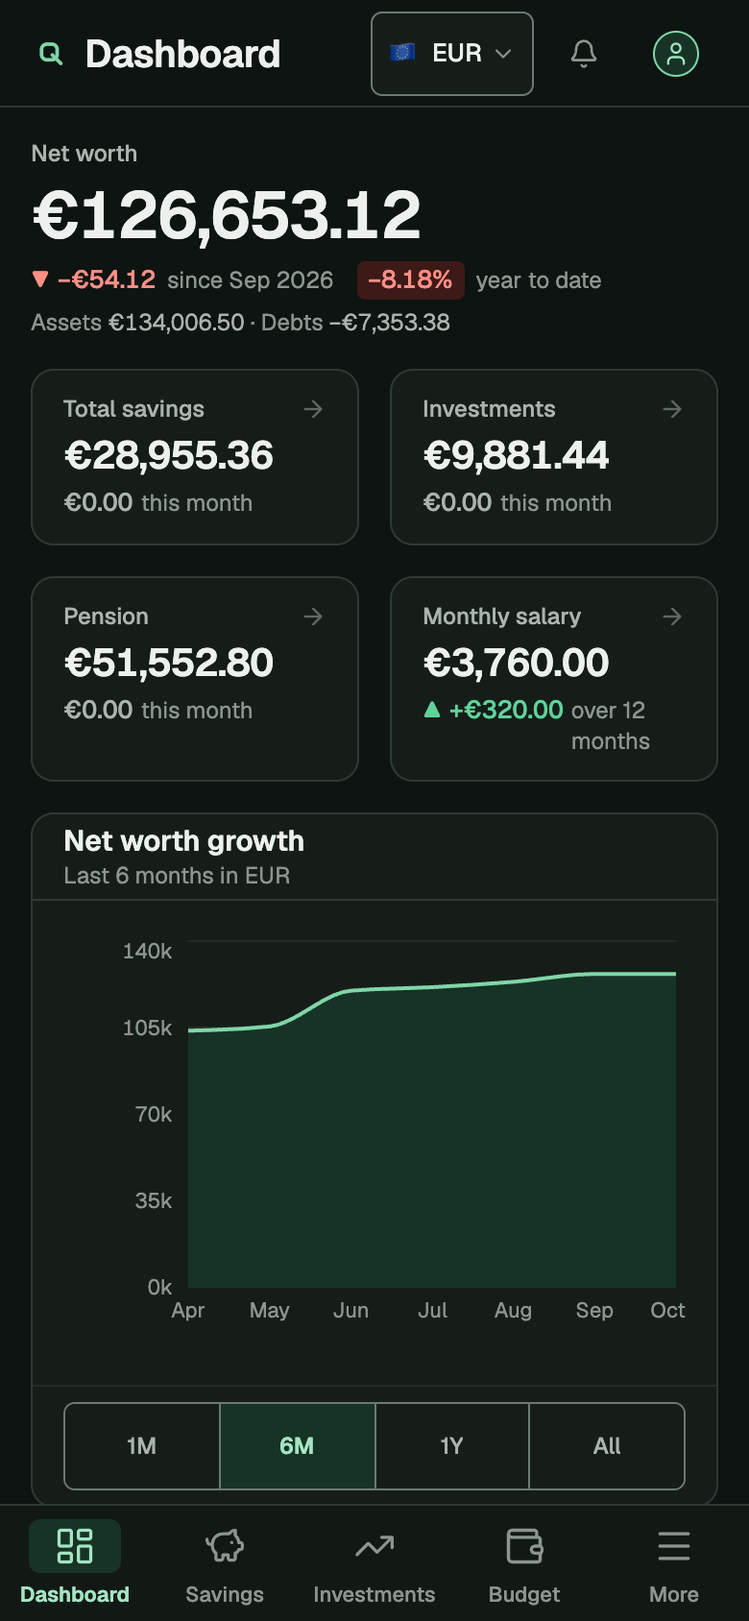
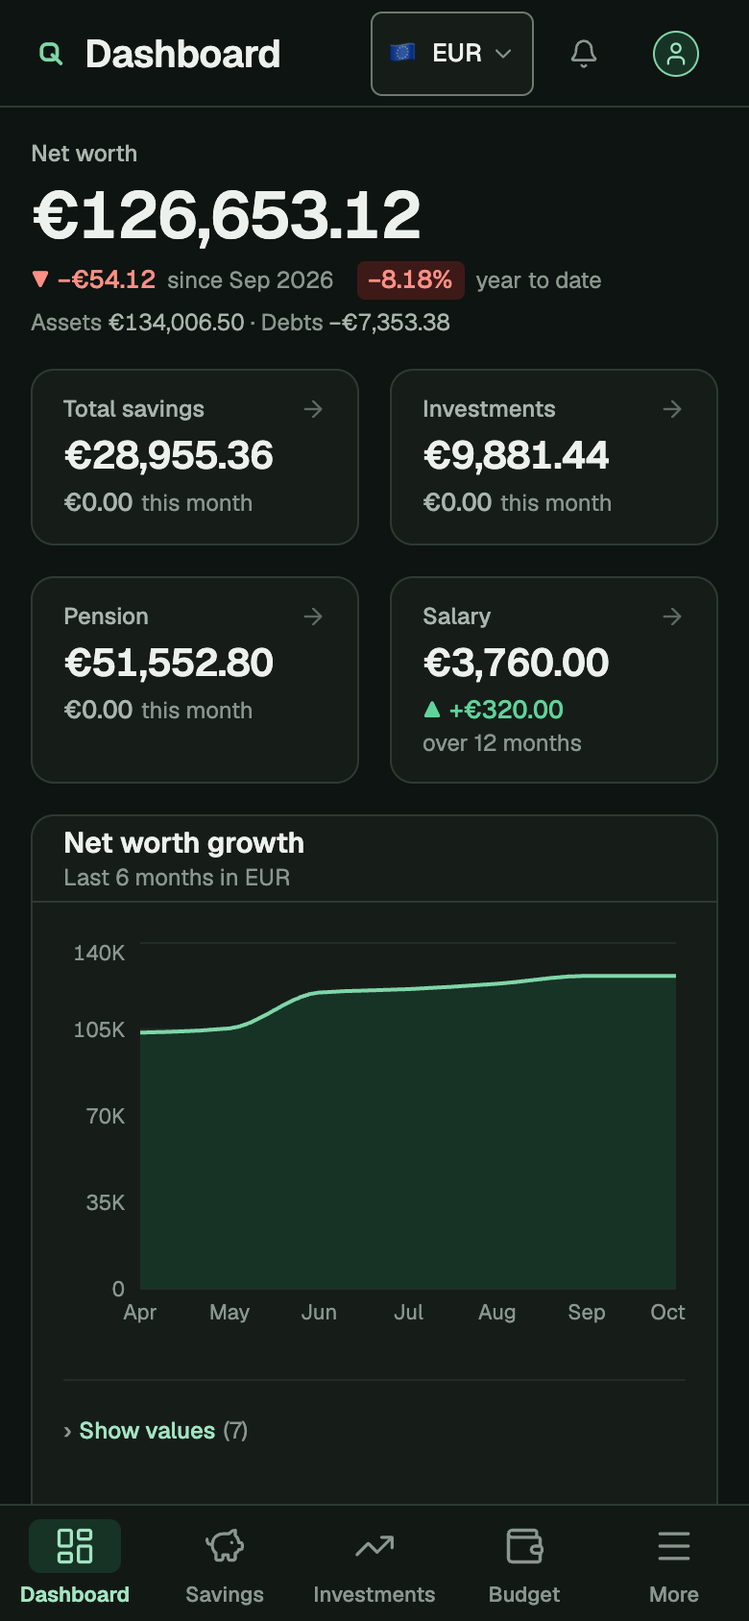
chore(release): prepare v1.0.0-rc.1 (#463)
- set the version to v1.0.0-rc.1 and date the changelog section
- add upgrade notes from 0.9.0 covering migrations 0041 to 0043
- move the documented image tags to v1.0.0-rc.1
- retake the reference screenshots from the demo household

diff --git a/CHANGELOG.md b/CHANGELOG.md
@@ -2,40 +2,55 @@
 
 All notable changes to this project will be documented in this file. The format roughly follows [Keep a Changelog](https://keepachangelog.com/en/1.1.0/) and uses [Semantic Versioning](https://semver.org/) for release numbers.
 
-## [Unreleased]
+## [v1.0.0-rc.1] - 2026-10-16
 
-### Changed
+Quro 1.0.0-rc.1 is the release candidate for 1.0.0. It adds account export and deletion, a reviewed CSV import, first-run guidance, structured logs and operational checks in `quro doctor`, bounded text fields, and a phone layout with cards, accessible charts and honest stale-data notices. Read the [upgrade notes](docs/upgrade.md#upgrade-from-090-to-100-rc1) before you upgrade, and back up with 0.9.0 first: one migration drops columns and cannot be undone.
 
-- Free-text fields have a maximum length: names, labels, providers, lenders and locations 100 characters, descriptions and transaction notes 500, debt, pension and goal notes 2000, emails 254, and uploaded document file names 255. The API answers `400` naming the field, and the web inputs stop at the same length. Rows that already hold a longer value still display, export and back up, and can be edited as long as that field is left unchanged. No migration. [Limits](docs/text-limits.md)
-- Server and import worker logs are JSON lines with a stable `event` name and a `requestId`; responses carry `X-Request-Id`. Log lines and trace spans no longer contain error messages, only the error class and codes. See the [upgrade notes](docs/upgrade.md#upgrade-from-090-to-100-rc1).
-- A failed background job waits a minute, then two, up to its interval, before it retries.
-- On a phone, the brokerage holdings and the payslip history are cards: the name and its caption on the left, the key figure on the right with the gain or loss under it, the other figures as a label over a value, and Edit and **Show details** along the foot. Desktop tables are unchanged.
-- On a phone, a card has one **Show details** button with a chevron instead of two controls, and the Edit and download buttons on it are easier to see. On a holding it also opens the position and transactions.
-- The Plan page shows the runway figure before the employment and spending class cards.
-- Stored values that were saved in Title Case (savings account types, pension types, property types, asset allocation names, the generic rule set) are shown in sentence case. The stored values and the API are unchanged.
-- The Brokerage value figure and the other stat cards shrink to fit their card instead of running out of it on a narrow phone.
-- On a phone, savings accounts and closed holdings are cards in the same layout (balance as the key figure, rate and interest as metrics, the bank, share and value under **Show details**), and a property card keeps its value and equity up front with the mortgage, rent and yield under **Show details**. Desktop tables are unchanged.
-- On a phone, Savings shows its total across the full width with the average rate and monthly interest side by side, and the dashboard puts net worth before the getting started list, which keeps the description of the next step only. The stat cards use the shorter labels Salary, Dividends and Property equity, and a change under a figure wraps instead of running past the card.
-- Below 360px the currency button drops its flag and chevron so the page title fits, and a transaction row puts its Edit and Delete buttons on a line of their own so the label stays readable.
+### Breaking changes
+
+Each item needs action from some operators or API clients and links to what to change in the upgrade notes.
+
+- **Migration 0042 drops three unused `budget_transactions` columns, `bunq_mcc`, `bunq_payment_type` and `counterparty_iban`.** Their values exist only in a backup afterwards, and the older image cannot run on the upgraded database. Back up with 0.9.0 first. [Details](docs/upgrade.md#migrations-and-the-backup-to-take-first)
+- **Server and import worker logs are JSON lines, not bracketed text.** Anything that parses the old lines (a log collector, an alert rule) must change. Responses carry an `X-Request-Id` header, and error messages are no longer logged. [Details](docs/upgrade.md#json-logs-and-request-ids)
+- **`quro doctor` checks more and reports a new `unknown` status.** A stopped core job, a referenced document missing from the store or a nearly full disk now makes it exit with code 1, and a script that reads each check's `status` must accept `unknown`. [Details](docs/upgrade.md#doctor-checks-and-the-unknown-status)
+- **`GET /api/capabilities` no longer has an `ai` key, and every capability has a `lifecycle` field.** Use `pensionStatementImport` where a client read `ai`. [Details](docs/upgrade.md#capabilities-and-the-setup-endpoint)
+- **The API answers `400` for a text value over its length limit.** Names and labels are limited to 100 characters, descriptions to 500, notes to 2000 and emails to 254. A value that is already longer stays editable while that field is left unchanged. [Details](docs/upgrade.md#text-field-length-limits)
 
 ### Added
 
-- Notices say when the data behind a figure is not current: an exchange rate older than 48 hours (with the currencies and the date), a holding whose synced price is older than a week, and a failed load of archived items, spending classes, banking entities or price history, each with a Retry where one applies. A failed load is never shown as an empty list.
-
-- Every chart has a text summary and a **Show values** table of the exact plotted values, including negative, missing and estimated entries. Charts follow the system reduced-motion setting, label axes in a compact form that fits a phone, keep tooltips inside the screen, and draw each series with a dash, fill or outline as well as a colour. Click a chart or tab to it and use the arrow keys to read a value.
-- `quro doctor` reports background job lag and failures, data freshness, disk space, the age of the newest backup and whether referenced documents are in the store, with a new `unknown` status for anything without evidence. [Monitor an install](docs/operations.md).
 - Every account can download its data in **Settings → Your data**: one ZIP with JSON and CSV for each table, the stored documents and a manifest with row counts and SHA-256 hashes (`GET /api/settings/export`). Text that a spreadsheet would run as a formula is escaped in the CSV. [Details](docs/data-export-and-deletion.md#export)
-- Every account can delete itself there (`DELETE /api/settings/account`, with the password and the email address). The rows, bank links, sessions and stored documents go in one step, an audit row records the counts without personal data, and `quro documents retry-deleted` removes documents the store refused to delete. Backups are not changed. [Details](docs/data-export-and-deletion.md#deletion)
-
+- Every account can delete itself there (`DELETE /api/settings/account`, with the password and the email address). The rows, bank links, sessions and stored documents go in one step, an audit row (`account_deletions`) records the counts without personal data, and `quro documents retry-deleted` removes documents the store refused to delete. Backups are not changed. [Details](docs/data-export-and-deletion.md#deletion)
 - A savings account or the budget can import a bank's **CSV** with a reviewed flow: map the columns once (the mapping is remembered per source), review every row in a dry run with locale, date and currency handling, and write only approved rows in bounded batches that can be cancelled and resumed. Rows already imported are found again by a `(source, external id)` key, so repeating an import adds nothing, and a savings import compares the statement's closing balance with the ledger and can book the difference as one labelled adjustment. [Details](docs/csv-import.md)
+- A getting started card on the dashboard guides a new household through currency and number format, what is shared with a partner, the first account and the first transaction, and goes away once there is an account and a transaction. `GET /api/dashboard/setup` returns `hasAccount` and `hasTransaction` for it. [API changes](docs/upgrade.md#capabilities-and-the-setup-endpoint)
+- Settings → Connections lists the features on this server with whether each is on, why not, and an experimental badge for statement import, instead of a fixed "Coming soon" list. The bunq Connect button and the statement import button are not shown on a server where that feature is not set up.
+- `quro doctor` reports background job lag and failures, data freshness, disk space, the age of the newest backup and whether referenced documents are in the store, with a new `unknown` status for anything without evidence. [Monitor an install](docs/operations.md)
+- Notices say when the data behind a figure is not current: an exchange rate older than 48 hours (with the currencies and the date), a holding whose synced price is older than a week, and a failed load of archived items, spending classes, banking entities or price history, each with a Retry where one applies. A failed load is never shown as an empty list.
+- Every chart has a text summary and a **Show values** table of the exact plotted values, including negative, missing and estimated entries. Charts follow the system reduced-motion setting, label axes in a compact form that fits a phone, keep tooltips inside the screen, and draw each series with a dash, fill or outline as well as a colour. Click a chart or tab to it and use the arrow keys to read a value.
+- Salary compares a payslip with the previous one, or with any other, in a gross-to-net table with a change column, and shows a year total row. An expanded holding shows its position (price, average cost, market value, cost basis, unrealized and realized gain) in the holding's currency and in your base currency, with the price source and a **Correct holding** button. Payslips and active holdings page at 25 rows.
+- On a phone, tables can be sorted and rows reveal their other figures with **Show details**; the brokerage holdings, the payslip history, savings accounts, closed holdings and properties are cards. Dialogs and the navigation drawer trap focus and return it, forms scroll to the first error and stay usable above the on-screen keyboard, and the app remembers its scroll position per page.
 
-### Removed
+### Changed
 
-- The columns `budget_transactions.bunq_mcc`, `bunq_payment_type` and `counterparty_iban` are dropped. Bank sync wrote them and nothing read them. [Details](docs/data-export-and-deletion.md#removed-bank-details)
+- A failed background job waits a minute, then two, and so on up to its interval before it retries, instead of retrying at every poll. [Details](docs/upgrade.md#background-job-backoff)
+- Free-text fields have a maximum length, and the web inputs stop at the same length. No migration. [Limits](docs/text-limits.md)
+- On a phone, the dashboard puts net worth before the getting started list, Savings shows its total across the full width, and the stat cards use the shorter labels Salary, Dividends and Property equity. The Plan page shows the runway figure before the employment and spending class cards. Below 360px the currency button drops its flag and chevron so the page title fits.
+- Stored values that were saved in Title Case (savings account types, pension types, property types, asset allocation names, the generic rule set) are shown in sentence case. The stored values and the API are unchanged.
+- The select arrow sits 12px from the edge with room for long options, and table rows with a caption under the first line have room to breathe.
+- Statement import copy no longer says "AI". The feature is marked experimental.
 
-### Upgrade notes
+### Fixed
 
-- **Back up first.** Three migrations run: one adds the `account_deletions` table, one drops the three unused `budget_transactions` columns above (their values are not recoverable except from a backup), and one adds the CSV import tables and three nullable columns on the two transaction tables, changing no value. Take one with the version you run before you upgrade ([backup and restore](docs/backup-and-restore.md)).
+- The app header, the navigation drawer, the landing page and the currency rates screen no longer slide under the status bar and notch when Quro is opened from a phone's home screen.
+- The goals at a glance bars end at the same point and their badges share one column.
+- The Brokerage value figure and the other stat cards shrink to fit their card instead of running out of it on a narrow phone, and a change under a figure wraps instead of running past the card.
+- A transaction row puts its Edit and Delete buttons on a line of their own below 360px, so the label stays readable.
+- Settings opened on a tab that a scrolled tab group had clipped now shows the tab.
+
+### Security
+
+- Logs and trace spans no longer contain error messages or stacks, only the error class and codes, and fields whose names look like credentials or personal data are redacted.
+- Free-text fields in the API are bounded in length.
+- CSV exports escape text that a spreadsheet would run as a formula, and CSV import reads a file within fixed limits (2 MB, 5,000 rows, 50 columns) and never evaluates a cell.
 
 ## [v0.9.0] - 2026-10-15
 

diff --git a/docs/upgrade.md b/docs/upgrade.md
@@ -7,7 +7,7 @@ The commands assume an install made with [the install guide](install.md): they r
 ## How upgrades work
 
 - **Two images per release.** `ghcr.io/pieter-ohearn/quro-backend` (the server, the optional import worker and every `quro` command) and `ghcr.io/pieter-ohearn/quro-frontend`. Use both at the same version. Pulling them needs no registry account.
-- **Pin the version and the digest.** A tag can be moved; a digest cannot. Each release's notes list the digest of both images. Pin both in `compose.yaml`, for example `image: ghcr.io/pieter-ohearn/quro-backend:v0.9.0@sha256:<digest from the release notes>`, and the same tag and digest for the `migrate` service. Docker then refuses an image whose digest does not match.
+- **Pin the version and the digest.** A tag can be moved; a digest cannot. Each release's notes list the digest of both images. Pin both in `compose.yaml`, for example `image: ghcr.io/pieter-ohearn/quro-backend:v1.0.0-rc.1@sha256:<digest from the release notes>`, and the same tag and digest for the `migrate` service. Docker then refuses an image whose digest does not match.
 - **Migrations only move forward.** `quro migrate` applies a release's schema migrations, all in one transaction, under a lock. The server never migrates by itself. An image refuses to run against a schema it does not know: readiness stays `503` and `quro migrate` stops with exit code 3. So going back to an older image works only while it ships every migration the database has (see [Roll back or restore](#roll-back-or-restore)).
 - **Readiness tells you when to route traffic.** `GET /api/health` answers `200` while the process runs. `GET /api/readiness` answers `200` only when the database answers, the schema matches the image and the document store is usable. The image's health check, `quro health`, uses readiness, so `docker compose ps` shows the backend as `healthy` only then.
 
@@ -168,9 +168,9 @@ Needs no settings and no database.
 
 ```json
 {
-  "version": "v0.9.0",
+  "version": "v1.0.0-rc.1",
   "revision": "<commit the image was built from>",
-  "migrations": { "latest": "0040_ledger_correctness", "count": 41 },
+  "migrations": { "latest": "0043_csv_imports", "count": 44 },
   "runtime": { "bun": "1.4.2", "platform": "linux", "arch": "arm64" }
 }
 ```
@@ -422,9 +422,58 @@ What the operator does: nothing, unless a script or client of your own calls the
 
 ### Upgrade from 0.9.0 to 1.0.0-rc.1
 
-What the operator does: nothing is required. If a log collector or alert parses the server's log lines, update it for the new format.
+Back up with 0.9.0 first (step 1 of the general procedure): [migration 0042 cannot be undone](#migrations-and-the-backup-to-take-first). Then work through the subsections that apply. Every install needs the backup, and an install with a log collector or alert needs [JSON logs and request ids](#json-logs-and-request-ids). A script that calls `quro doctor --json` or the capabilities endpoint needs [doctor checks and the unknown status](#doctor-checks-and-the-unknown-status) or [capabilities and the setup endpoint](#capabilities-and-the-setup-endpoint). The others need no action from most installs: [text field length limits](#text-field-length-limits), [account export and deletion](#account-export-and-deletion), [background job backoff](#background-job-backoff) and [CSV import](#csv-import).
 
-- **Logs are JSON lines.** The server and the import worker write one JSON object per line with `time`, `level`, `event` and, during a request, `requestId`. The old bracketed text lines are gone. Every response carries an `X-Request-Id` header. Error messages are no longer logged or put into traces: only the error class and its codes. See [Monitor an install](operations.md).
-- **`quro doctor` has more checks and a new status.** New check ids: `jobs.*`, `freshness.*`, `disk.*`, `backup.age` and `documents.references`. A check with `status: "unknown"` has no evidence either way. A stopped core job, a missing referenced document or a nearly full disk fails the run (exit code 1).
-- **New tables for CSV import.** One migration adds `import_profiles`, `csv_imports` and `csv_import_rows` and three nullable columns on `savings_transactions` and `budget_transactions`. No existing value changes and nothing is required. See [import a CSV](csv-import.md).
-- **Failed background jobs back off.** After a failed cycle a job waits a minute, then two, up to its normal interval, instead of retrying at every poll.
+#### Migrations and the backup to take first
+
+What the operator does: take a backup with 0.9.0 before you pull the new images, and keep it until you have checked the upgraded install. Then upgrade as in the general procedure; `quro migrate` applies the three migrations in one transaction.
+
+- `0041_account_deletions` adds the `account_deletions` table, which records account deletions (see [account export and deletion](#account-export-and-deletion)).
+- `0042_drop_write_only_bunq_columns` drops `budget_transactions.bunq_mcc`, `bunq_payment_type` and `counterparty_iban`. Bank sync wrote them and nothing read them, but the values are gone once the migration has run: only the backup holds them. Because the database then has migrations that 0.9.0 does not ship, 0.9.0 refuses to run on it; [restore the backup](#restore-the-snapshot-taken-before-the-upgrade) to go back.
+- `0043_csv_imports` adds the `import_profiles`, `csv_imports` and `csv_import_rows` tables and the nullable columns `import_id`, `import_source` and `external_id` on `savings_transactions` and `budget_transactions`. No existing value changes.
+
+After the upgrade `quro version --json` reports `1.0.0-rc.1`, `0043_csv_imports` and a count of 44, and `quro migrate --status` exits 0.
+
+#### JSON logs and request ids
+
+What the operator does: if a log collector, parser or alert rule reads the server's or the import worker's log lines, change it to read JSON before you upgrade. Nothing else is needed.
+
+The server and the import worker write one JSON object per line with `time`, `level`, `event` and, during a request, `requestId`. The old bracketed text lines are gone. Every response carries an `X-Request-Id` header, and a reverse proxy may supply its own. Error messages are no longer logged or put into traces: only the error class and its codes. See [Monitor an install](operations.md).
+
+#### Doctor checks and the unknown status
+
+What the operator does: if a script or monitor reads `quro doctor`, accept the new status and the new check ids, and expect exit code 1 where it was 0 before. Run `docker compose run --rm migrate doctor` once after the upgrade and fix what it reports.
+
+New check ids are `jobs.<name>`, `freshness.*`, `disk.*`, `backup.age` and `documents.references`. A check with `status: "unknown"` has no evidence either way, such as a job that has not run since the server started or a backup directory the command cannot read; it does not change the exit code. A stopped core background job, a document that a row refers to but the store lacks, or a nearly full disk fails the run (exit code 1). A backup directory that is not mounted into the container the command runs in reports `backup.age` as `unknown`. See [`quro doctor --json`](#quro-doctor---json) and [Monitor an install](operations.md).
+
+#### Capabilities and the setup endpoint
+
+What the operator does: nothing, unless a script or client of your own calls these endpoints.
+
+- `GET /api/capabilities` no longer has an `ai` key. It duplicated `pensionStatementImport`; read that instead. The result has `pensionStatementImport`, `bunq` and `documents`.
+- Each capability has a `lifecycle` field, `stable` or `experimental`. Statement import is `experimental`: it may change or go in a minor release.
+- New `GET /api/dashboard/setup` returns `{ "data": { "hasAccount": boolean, "hasTransaction": boolean } }` for the signed-in household (its own rows plus an accepted partner's joint rows). The web app uses it to show the getting started card.
+
+#### Text field length limits
+
+What the operator does: nothing, unless a script or import of your own writes long text through the API.
+
+Create and update requests answer `400` with `<field> must be at most N characters` for text over its limit: names, labels, providers, lenders and locations 100 characters, descriptions and transaction notes 500, debt, pension and goal notes 2000, emails 254 and uploaded document file names 255. A row that already holds a longer value still displays, exports and restores, and an edit is accepted while that field is left unchanged. Bank sync and the importers are not bounded. No migration. The full table is in [text limits](text-limits.md).
+
+#### Account export and deletion
+
+What the operator does: nothing is required. Know that every account can now download its data and delete itself, and that a deletion does not reach your backups.
+
+- `GET /api/settings/export` streams a ZIP of the account's data; `GET` and `DELETE /api/settings/account` preview and perform the deletion, which needs the password and the email address. Both are in **Settings → Your data**. See [data export and deletion](data-export-and-deletion.md).
+- If the document store refuses to delete a file, the account is still deleted and the keys stay on the `account_deletions` row. Retry them with `docker compose exec backend quro documents retry-deleted`; it exits 0 when none are pending and 1 when some still fail.
+- Backups taken before a deletion still hold the account, and a restore brings it back. Delete those archives if the person must be gone from every copy.
+
+#### CSV import
+
+What the operator does: nothing. The import needs no setting. The tables come with migration `0043` (see [migrations](#migrations-and-the-backup-to-take-first)); [import a CSV](csv-import.md) describes the flow for users.
+
+#### Background job backoff
+
+What the operator does: nothing.
+
+After a failed cycle a background job waits a minute, then two, doubling up to its normal interval, instead of retrying at every poll. `quro doctor` shows a job that keeps failing.

diff --git a/docs/install.md b/docs/install.md
@@ -16,7 +16,7 @@ The steps apply from 0.8.0. CI runs these steps from empty directories on amd64 
 
    ```bash
    mkdir -p quro/config quro/data/documents quro/backups && cd quro
-   curl -fsSL -o compose.yaml https://raw.githubusercontent.com/Pieter-OHearn/quro/v0.9.0/docs/compose.example.yaml
+   curl -fsSL -o compose.yaml https://raw.githubusercontent.com/Pieter-OHearn/quro/v1.0.0-rc.1/docs/compose.example.yaml
    ```
 
    Use the tag of the release you install in the URL; the file pins the images of that release. Read it before you start it: it is a plain file, and nothing is rendered or substituted.
@@ -32,7 +32,7 @@ The steps apply from 0.8.0. CI runs these steps from empty directories on amd64 
 3. Write the settings file, the database passwords and the secrets key:
 
    ```bash
-   docker run --rm -v "$PWD/config:/config" ghcr.io/pieter-ohearn/quro-backend:v0.9.0 init
+   docker run --rm -v "$PWD/config:/config" ghcr.io/pieter-ohearn/quro-backend:v1.0.0-rc.1 init
    ```
 
    This creates `config/quro.env`, `config/secrets/postgres_admin_password` and `config/secrets/postgres_app_password` (24 random bytes each) and `config/secrets/secrets_key` (32 random bytes, the key that encrypts bank-link tokens in the database), all mode `0600`. The values are never printed. Running it again changes nothing; on an existing directory it creates only the files that are missing.
@@ -65,16 +65,16 @@ Keep a copy of `compose.yaml`, `config/quro.env` and `config/secrets/` somewhere
 
 ### Verify the images
 
-The images pull without a registry account. A tag such as `v0.9.0` can be moved on the registry; a digest cannot. Each release's notes list the digest of both images, and [distribution](distribution.md) records how their public, anonymous availability is checked. To run exactly those images:
+The images pull without a registry account. A tag such as `v1.0.0-rc.1` can be moved on the registry; a digest cannot. Each release's notes list the digest of both images, and [distribution](distribution.md) records how their public, anonymous availability is checked. To run exactly those images:
 
 1. Pull them and print the digest each tag points at:
 
    ```bash
    docker compose pull
-   docker image inspect --format '{{index .RepoDigests 0}}' ghcr.io/pieter-ohearn/quro-backend:v0.9.0 ghcr.io/pieter-ohearn/quro-frontend:v0.9.0
+   docker image inspect --format '{{index .RepoDigests 0}}' ghcr.io/pieter-ohearn/quro-backend:v1.0.0-rc.1 ghcr.io/pieter-ohearn/quro-frontend:v1.0.0-rc.1
    ```
 
-2. Compare both digests with the release notes. Then pin them in `compose.yaml`: the `migrate` and `backend` services use `ghcr.io/pieter-ohearn/quro-backend:v0.9.0@sha256:<backend digest>`, and `frontend` uses `ghcr.io/pieter-ohearn/quro-frontend:v0.9.0@sha256:<frontend digest>`. Pin `quro init` the same way.
+2. Compare both digests with the release notes. Then pin them in `compose.yaml`: the `migrate` and `backend` services use `ghcr.io/pieter-ohearn/quro-backend:v1.0.0-rc.1@sha256:<backend digest>`, and `frontend` uses `ghcr.io/pieter-ohearn/quro-frontend:v1.0.0-rc.1@sha256:<frontend digest>`. Pin `quro init` the same way.
 
 With a digest in the image reference, Docker pulls only an image with that digest and fails otherwise, on this host and on any other that uses your `compose.yaml`. The digest is that of the multi-platform image index, so it is the same on amd64 and arm64.
 

diff --git a/README.md b/README.md
@@ -39,7 +39,7 @@ Quro 0.8.0 is the first release that installs this way, and upgrades are support
 
    ```bash
    mkdir -p quro/config quro/data/documents quro/backups && cd quro
-   curl -fsSL -o compose.yaml https://raw.githubusercontent.com/Pieter-OHearn/quro/v0.9.0/docs/compose.example.yaml
+   curl -fsSL -o compose.yaml https://raw.githubusercontent.com/Pieter-OHearn/quro/v1.0.0-rc.1/docs/compose.example.yaml
    ```
 
    Read `compose.yaml` before you start it. It is a plain file with four services and no template step: `db` (PostgreSQL 18), `migrate` (applies the schema, then exits), `backend` and `frontend`.
@@ -55,7 +55,7 @@ Quro 0.8.0 is the first release that installs this way, and upgrades are support
 3. Write the settings file and generate the database passwords:
 
    ```bash
-   docker run --rm -v "$PWD/config:/config" ghcr.io/pieter-ohearn/quro-backend:v0.9.0 init
+   docker run --rm -v "$PWD/config:/config" ghcr.io/pieter-ohearn/quro-backend:v1.0.0-rc.1 init
    ```
 
    This creates `config/quro.env`, two password files and the key that encrypts bank-link secrets in `config/secrets/` (random bytes, readable by their owner only). The values are never printed. The defaults match the example Compose file, so you can review the settings later; the next step runs `quro migrate` for you.

diff --git a/docs/uninstall.md b/docs/uninstall.md
@@ -21,7 +21,7 @@ docker compose down
 This removes the containers and the Compose networks. It keeps the database volume (`quro_postgres`), `config/`, `data/documents/` and `backups/`. `docker compose up -d` later starts Quro again with the same data and accounts. You can also remove the images to free disk space; the next `up -d` pulls them again:
 
 ```bash
-docker image rm ghcr.io/pieter-ohearn/quro-backend:v0.9.0 ghcr.io/pieter-ohearn/quro-frontend:v0.9.0 postgres:18.6-alpine3.23
+docker image rm ghcr.io/pieter-ohearn/quro-backend:v1.0.0-rc.1 ghcr.io/pieter-ohearn/quro-frontend:v1.0.0-rc.1 postgres:18.6-alpine3.23
 ```
 
 Use the tags in your `compose.yaml`, and leave out `postgres` if other containers on the host use that image.
